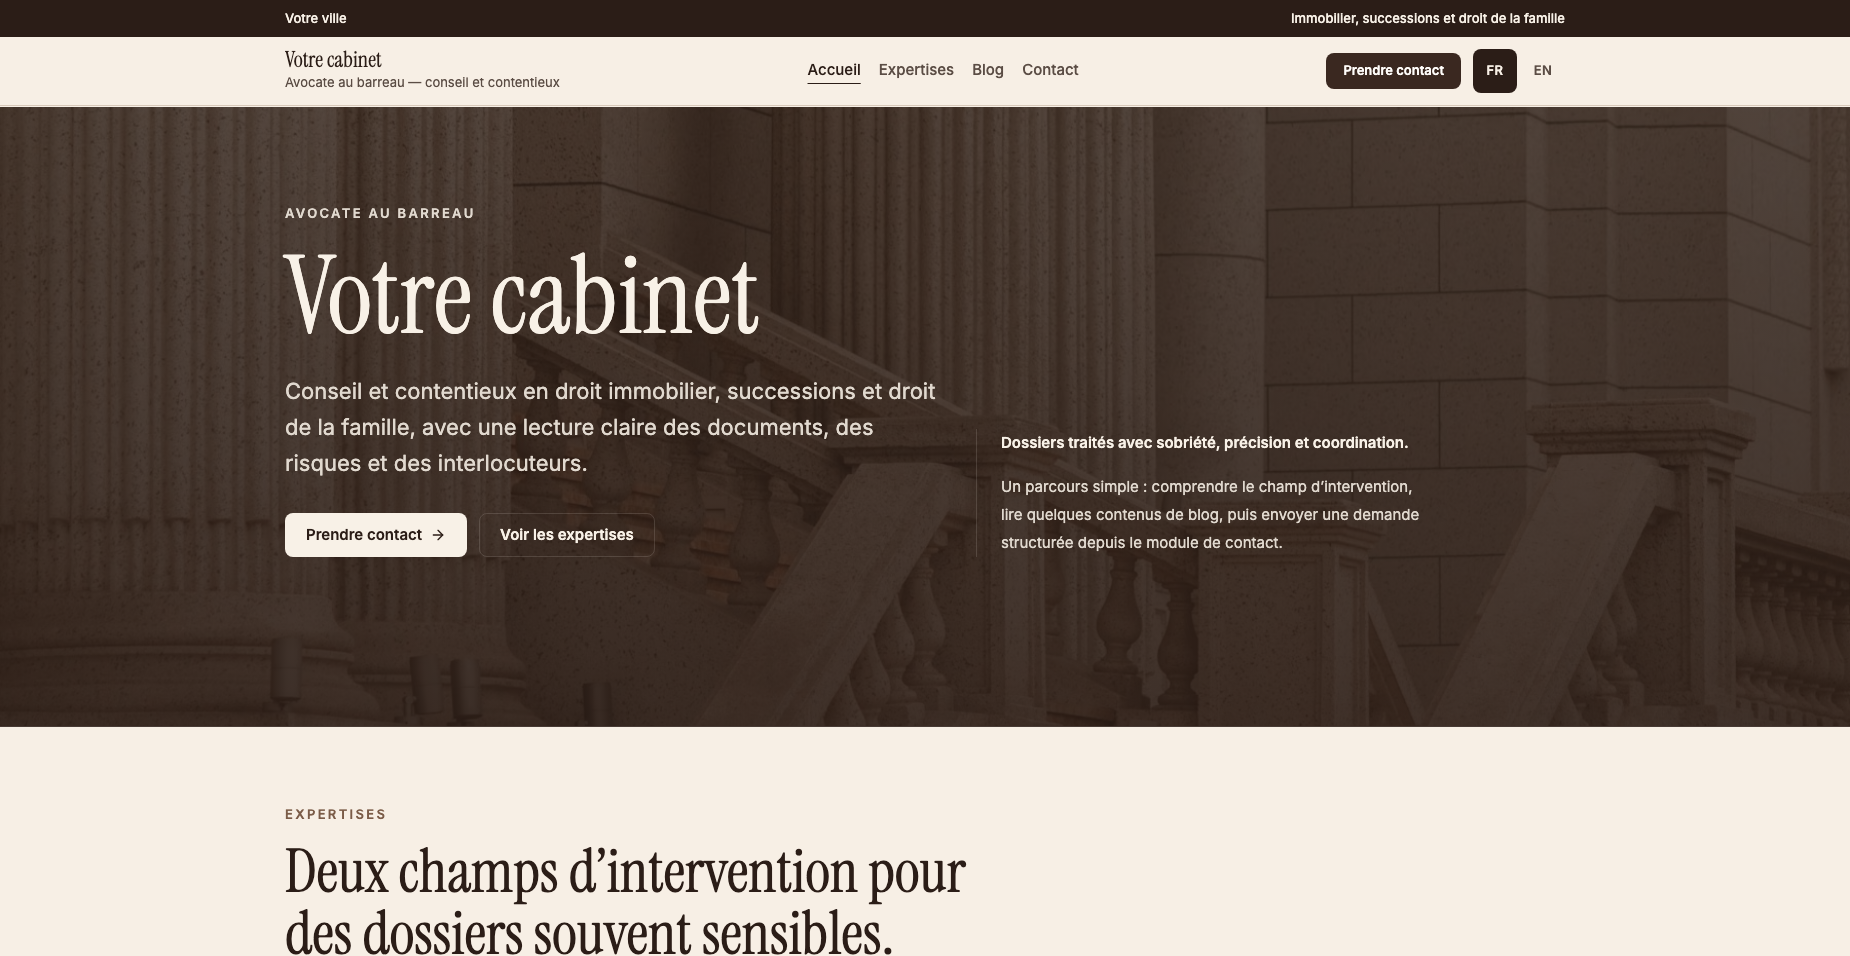
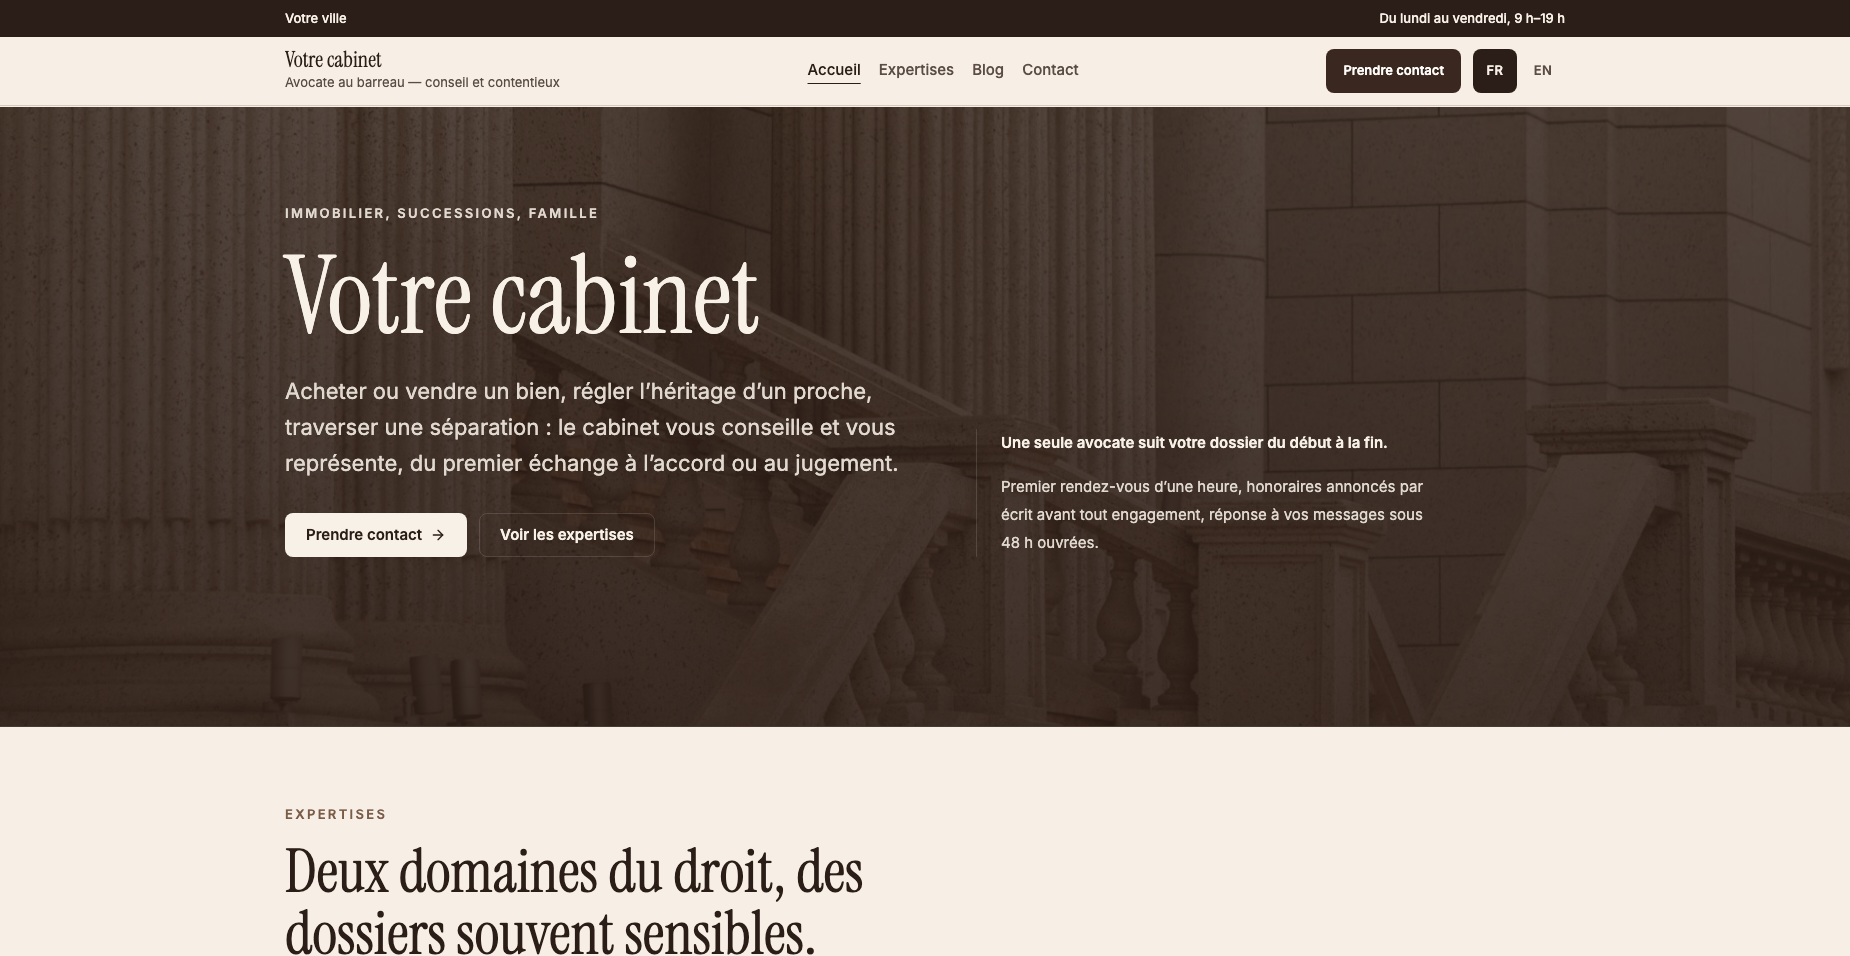
docs(templates): galerie des templates de copie et typographie (phase 6)
Textes de galerie FR et EN et captures 1850 × 956 de fleuriste,
patisserie, boulangerie et avocate, qui montraient encore l'ancienne
copie. Textes de plombier-chauffagiste et agence-immobiliere alignés
sur l'entreprise plutôt que sur le site. Insécables et apostrophes
typographiques dans les noms et descriptions FR des treize templates
publics. docs/templates.md : ScrollReveal vit hors du kit.

Vérification indépendante : FAIL au tour 1 (insécables avant « : »,
y compris dans les entrées de c2bdb86), PASS au tour 2.

diff --git a/src/content/templates/registry.ts b/src/content/templates/registry.ts
@@ -130,12 +130,12 @@ const TEMPLATES = [
         fr: {
           name: "Template Boulangerie",
           description:
-            "Une base chaleureuse et commerçante pour vendre une présence locale claire, des horaires, une vitrine de produits et une commande simple.",
+            "Une boulangerie de quartier : la vitrine du jour avec ses prix, le pain mis de côté chaque semaine, les buffets et petits-déjeuners sur commande, les horaires et l’adresse.",
         },
         en: {
           name: "Bakery template",
           description:
-            "A warm, shop-friendly base for a clear local presence, opening hours, a product showcase and simple ordering.",
+            "A neighborhood bakery: today’s display with prices, bread set aside every week, buffets and office breakfasts to order, plus opening hours and address.",
         },
       },
     },
@@ -153,12 +153,12 @@ const TEMPLATES = [
         fr: {
           name: "Template Fleuriste",
           description:
-            "Une direction plus éditoriale et premium pour mettre en avant un style, des compositions et un univers visuel fort.",
+            "Un atelier de fleuriste pour mariages, réceptions et entreprises : réalisations par type d’événement, déroulé de la préparation, devis détaillé et prise de rendez-vous.",
         },
         en: {
           name: "Florist template",
           description:
-            "A more editorial, premium direction to showcase a style, compositions and a strong visual world.",
+            "A florist studio for weddings, private parties and businesses: projects by type of event, how the preparation works, an itemized quote and appointment booking.",
         },
       },
     },
@@ -176,7 +176,7 @@ const TEMPLATES = [
         fr: {
           name: "Template Réparation ordinateur",
           description:
-            "Un atelier de réparation d’ordinateurs, Mac et PC : diagnostic gratuit sous 24 h ouvrées, devis ferme avant toute réparation, garantie de 6 mois, dépôt ou enlèvement.",
+            "Un atelier de réparation d’ordinateurs, Mac et PC : diagnostic gratuit sous 24 h ouvrées, devis ferme avant toute réparation, garantie de 6 mois, dépôt ou enlèvement.",
         },
         en: {
           name: "Computer repair template",
@@ -200,12 +200,12 @@ const TEMPLATES = [
         fr: {
           name: "Template Pâtisserie",
           description:
-            "Une base plus haut de gamme pour valoriser des créations, des événements et une promesse de maison premium.",
+            "Une pâtisserie haut de gamme : entremets de 6 à 10 parts, pâtisseries à l’unité, recettes signature, gâteaux sur commande jusqu’à 120 parts et livraison locale.",
         },
         en: {
           name: "Pastry shop template",
           description:
-            "A more upscale base to showcase your creations, events and the promise of a premium pâtisserie.",
+            "An upscale pastry shop: cakes for 6 to 10, individual pastries, signature recipes, made-to-order cakes up to 120 servings and local delivery.",
         },
       },
     },
@@ -223,7 +223,7 @@ const TEMPLATES = [
         fr: {
           name: "Template Dentiste",
           description:
-            "Un cabinet dentaire qui explique chaque soin, remet un devis écrit avant tout traitement et propose un premier rendez-vous sous 48 h, avec réservation en ligne.",
+            "Un cabinet dentaire qui explique chaque soin, remet un devis écrit avant tout traitement et propose un premier rendez-vous sous 48 h, avec réservation en ligne.",
         },
         en: {
           name: "Dentist template",
@@ -246,12 +246,12 @@ const TEMPLATES = [
         fr: {
           name: "Template Plombier chauffagiste",
           description:
-            "Un site de plombier chauffagiste en quatre pages : dépannages plomberie et chauffage, tarifs de départ et majorations annoncées, devis signé avant travaux et contact avec astreinte.",
+            "Un plombier chauffagiste qui affiche ses prix : dépannages en plomberie et en chauffage, tarifs de départ, majorations annoncées, devis signé avant travaux et astreinte jusqu’à 22 h.",
         },
         en: {
           name: "Plumber & heating template",
           description:
-            "A four-page plumber and heating contractor website: plumbing and heating repairs, starting rates and stated surcharges, quote signed before work, and contact with on-call hours.",
+            "A plumber and heating contractor who posts prices up front: plumbing and heating repairs, starting rates, surcharges disclosed in advance, a quote signed before work and on-call service until 10 p.m.",
         },
       },
     },
@@ -292,7 +292,7 @@ const TEMPLATES = [
         fr: {
           name: "Template Ménage & nettoyage",
           description:
-            "Une entreprise de ménage à domicile et de nettoyage de bureaux : devis en quatre questions, formules, secteurs desservis, prix ferme sous 24 h et questions fréquentes.",
+            "Une entreprise de ménage à domicile et de nettoyage de bureaux : devis en quatre questions, formules, secteurs desservis, prix ferme sous 24 h et questions fréquentes.",
         },
         en: {
           name: "Housekeeping & cleaning template",
@@ -315,7 +315,7 @@ const TEMPLATES = [
         fr: {
           name: "Template Restaurant bistrot",
           description:
-            "La carte courte qui suit le marché, une cave au verre, un comptoir sans réservation, la réservation de table et la privatisation pour 9 à 20 convives.",
+            "La carte courte qui suit le marché, une cave au verre, un comptoir sans réservation, la réservation de table et la privatisation pour 9 à 20 convives.",
         },
         en: {
           name: "Bistro restaurant template",
@@ -336,9 +336,9 @@ const TEMPLATES = [
       screenshot: "/template/architecte-interieur.png",
       copy: {
         fr: {
-          name: "Template Architecte d'intérieur",
+          name: "Template Architecte d’intérieur",
           description:
-            "Un studio d’architecture d’intérieur : réalisations en photo, honoraires annoncés d’avance, méthode en quatre temps et premier rendez-vous d’une heure offert.",
+            "Un studio d’architecture d’intérieur : réalisations en photo, honoraires annoncés d’avance, méthode en quatre temps et premier rendez-vous d’une heure offert.",
         },
         en: {
           name: "Interior architect template",
@@ -359,9 +359,9 @@ const TEMPLATES = [
       screenshot: "/template/cabinet-avocat.png",
       copy: {
         fr: {
-          name: "Template Cabinet d'avocat",
+          name: "Template Cabinet d’avocat",
           description:
-            "Un cabinet d’avocats d’affaires pour dirigeants et PME : domaines d’intervention, honoraires annoncés, première consultation de 45 minutes, réponse sous 48 h ouvrées.",
+            "Un cabinet d’avocats d’affaires pour dirigeants et PME : domaines d’intervention, honoraires annoncés, première consultation de 45 minutes, réponse sous 48 h ouvrées.",
         },
         en: {
           name: "Law firm template",
@@ -386,12 +386,12 @@ const TEMPLATES = [
         fr: {
           name: "Template Avocate",
           description:
-            "Un site chic et sobre pour une avocate spécialisée en droit immobilier, successions et droit de la famille, avec blog et contact front-only.",
+            "Le cabinet d’une avocate en droit immobilier, successions et droit de la famille : expertises, méthode en trois étapes, blog et prise de contact.",
         },
         en: {
           name: "Lawyer template",
           description:
-            "A chic, understated site for a lawyer specializing in real estate, inheritance and family law, with a blog and a front-end-only contact form.",
+            "The practice of a lawyer in real estate, inheritance and family law: areas of expertise, a three-step method, a blog and a contact page.",
         },
       },
     },
@@ -409,12 +409,12 @@ const TEMPLATES = [
         fr: {
           name: "Template Agence immobilière",
           description:
-            "Le site d’une agence de quartier : sélection de biens avec fiche détaillée, agents référents, quartiers, parcours acquéreurs et vendeurs, estimation offerte.",
+            "Une agence immobilière de quartier : sélection de biens avec fiche détaillée, un agent référent par quartier, accompagnement des acquéreurs et des vendeurs, estimation offerte.",
         },
         en: {
           name: "Real estate agency template",
           description:
-            "A neighborhood agency website: a property selection with a detailed listing page, lead agents, neighborhoods, buyer and seller paths, and a free home value estimate.",
+            "A neighborhood real estate agency: a selection of properties with a detailed listing page, a lead agent for each neighborhood, guidance for buyers and sellers, and a free home value estimate.",
         },
       },
     },

diff --git a/docs/templates.md b/docs/templates.md
@@ -298,7 +298,7 @@ Refaire un template déjà sur le kit : accueil, sous-pages, photos et copie, FR
 - **Grille** : deux largeurs de contenu (`7xl`, `5xl`) ; découpes 7/5, 8/4 ou 1/1, et leur miroir. Pas de colonnes à pourcentage arbitraire.
 - **Formes** : deux rayons (`radius`, `radiusPill`) et deux ombres (`shadow-tpl-sm`, `shadow-tpl-lg`) au plus, ombres dérivées de l'encre.
 - **Images** : trois ratios au plus par template, un seul type de voile (le dégradé de `TemplateHeroMedia`), au plus une image pleine largeur par section, aucun `background-image`.
-- **Mouvement** : `ScrollReveal` facultatif, trois paliers de délai au plus (0, 80, 160 ms), distance de 16 à 20 px ; survol `-translate-y-0.5` en 200 ms ; tout respecte `prefers-reduced-motion`.
+- **Mouvement** : `ScrollReveal` (hors du kit : `src/components/scroll-reveal.tsx`) facultatif, trois paliers de délai au plus (0, 80, 160 ms), distance de 16 à 20 px ; survol `-translate-y-0.5` en 200 ms ; tout respecte `prefers-reduced-motion`.
 - **Contraste** : texte courant à 4,5:1 au moins, partout (fond uni mesuré par le DOM, texte sur photo ou dégradé mesuré au pixel sur capture) ; la paire `ink-muted` / `surface` est relevée.
 - À éviter : une grille de cartes identiques par section, un sur-titre sur chaque section, des pilules partout, du remplissage, des chiffres sans source plausible, une section vide à 1440 px.
 
